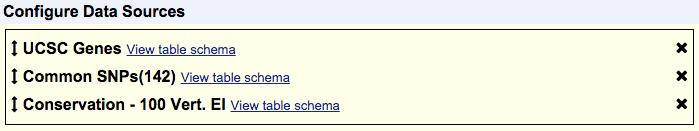
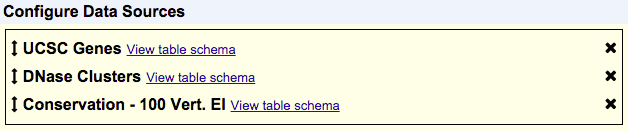
Added an explanation of how we handle multiple overlapping items in multiple secondary tables.  Made an editorial pass over the whole doc and substituted DNase Clusters for SNPs because I think of genes+snps as hgVai's domain. refs #14579

Changed region(s): [[0.0, 0.2443, 0.5446, 0.9466], [0.0, 0.0305, 0.3025, 0.1527], [0.9379, 0.2443, 0.9984, 0.9466]]

diff --git a/src/hg/htdocs/goldenPath/help/hgIntegratorHelp.html b/src/hg/htdocs/goldenPath/help/hgIntegratorHelp.html
@@ -93,27 +93,31 @@
 	<div class="sectionContent">
 	<p>Follow these instructions to perform a basic query that intersects two
 	or more tracks:
+
 	<p>
 	<b>Step 1. Pick a genome assembly</b><br>
 	Specify the genome assembly from which you'd like to retrieve the
-	data by choosing the appropriate organism in the <b>genome</b>
-	list, then selecting the assembly version from the
-	<b>assembly</b> list. Note that the <b>assembly</b> list
-	refreshes each time a different option is selected in the
-	<b>genome</b> list. Assemblies are typically named after the first three
-	characters of an organism's genus and species names. Assemblies that are
+	data by choosing the appropriate organism using the <b>group</b> and <b>genome</b>
+	menus, then selecting the assembly version from the
+	<b>assembly</b> menu.
+        Note that changing the <b>group</b> menu causes the <b>genome</b> menu to refresh,
+        and changing the <b>genome</b> menu causes the <b>assembly</b> menu to refresh.
+        Assemblies that are
 	uploaded as part of an <a href="hgTrackHubHelp.html#Assembly">assembly hub</a>
-	will be available under the hub's name in the <b>group</b> list.
+	will be available under the hub's name in the <b>group</b> menu.
+
 	<p>
 	<b>Step 2. Pick a genomic region</b><br>
-	By default, the Data Integrator region is set to <b>genome</b>,
-	which will display all the data records in the selected table.
+	By default, the Data Integrator's <b>region to annotate</b> menu is set to
+        <select><option>genome</option></select>,
+	which will display all the data records in the selected track(s).
 		<ul>
 		<li>
 		To restrict the data to a specific position
-		range, select <button type="button">position or search term</button> from the 
+		range, select
+                <select><option>position or search term</option></select> from the
 		<b>region to annotate</b> menu
-		and type the position into the box. Some
+		and type or paste the position into the box. Some
 		examples of specific positions include a chromosome name
 		(<em>chrX</em>), a coordinate range within a chromosome
 		(<em>chrX:100000-400000</em>), or a scaffold name.
@@ -121,37 +125,44 @@
 		To look up the position range of a genomic element -- such
 		as a gene name, an accession ID, an STS marker, etc. -- or
 		keywords from the GenBank description of an mRNA,
-		select <button type="button">position or search term</button> from the 
+                select <select><option>position or search term</option></select> from the
 		<b>region to annotate</b> menu and then type
 		your search term into the box.
+                For assemblies that have gene annotations, autocompletions of gene symbols
+                are offered.
+                If your search term matches more than one track or item,
+                then a pop-up will appear with matching items and positions;
+                click an item to select its position.
 		<li>
-		To select multiple genomic regions, select
-		<button type="button">define regions</button> from 
+		To query multiple genomic regions, select
+                <select><option>define regions</option></select> from the
 		<b>region to annotate</b> menu and then
-		entering up to 1,000 regions in a 3- or 4-field
+		enter up to 1,000 regions in a 3- or 4-field
 		<a href="../../FAQ/FAQformat.html#format1">BED</a>
-		file format.
+		file format or as <em>chrom:start-end</em> position ranges.
 		</ul>
 	<p>
 	<b>Step 3. Configure your data sources</b><br>
-	The <b>track group</b> list shows all the annotation track groups
+	The <b>track group</b> menu shows all the annotation track groups
 	available in the selected genome assembly. The names correspond
 	to the groupings displayed at the bottom of the Genome Browser
-	annotation tracks page. When a group is selected from the list,
-	the <b>track</b> list automatically updates to show all the
+	annotation tracks page. When a group is selected from the menu,
+	the <b>track</b> menu automatically updates to show all the
 	annotation tracks available within that group.
 		<ul>
 		<li>
 		To examine all the tracks available within a certain group (e.g.
 		all gene prediction tracks), select the group name from the
-		<b>track group</b> list, then browse the entries in the
-		<b>track</b> list.
+		<b>track group</b> menu, then browse the entries in the
+		<b>track</b> menu.
 		<li>
 		Custom annotation tracks created during the current session
 		are listed under the <b>Custom Tracks</b> group.
 		<li>
-		Each connected track hub will be listed as it's own group under the
-		<b>track group</b> list.
+		Each connected track hub will be listed as its own group under the
+		<b>track group</b> menu.
+                <li>Clicking the "View table schema" link opens a new web browser tab with
+                the Table Browser's schema page which describes the data fields.
 		</ul>
 	<p><img style="border: 1px solid black; display: block;"
 		src="../../images/hgIntegratorAddTrack.png">
@@ -161,7 +172,7 @@
 	See the <a href="#DataSources">Selecting Data Sources</a> section for more details.
 	<p>
 	<b>Step 4. Rearrange your data sources (Optional)</b><br>
-	You can rearrange you data sources by clicking on a track name
+	You can rearrange your data sources by clicking on a track name
 	and dragging it into the desired order. Items are output based on their overlap
 	with the first listed track. The order of the tracks will also determine
 	the order of the fields in the output. Fields from tracks higher in the list
@@ -173,7 +184,7 @@
 	You can choose the columns you want in your output by checking the box next to that
 	field. See the <a href="#OutputConfig">Configuring Output</a> for more details.
 	<p>
-	<b>Step 6. Display the output</b><br>
+	<b>Step 6. Get output</b><br>
 	Click <button type="button">Get Output</button> to display the
 	results of the query in the web browser window. The results will be displayed
 	as tab-delimited text. Download results as a file by checking the box next to
@@ -206,8 +217,8 @@
 	Fields from tracks that are higher up in the <b>Configure Data Sources</b> box will show
 	up before tracks that are lower in that box. Using the same order of tracks seen in the
 	previous example, this means that fields from the UCSC Genes track will appear first in
-	the output, then fields from Common SNPs (142) and lastly fields from Conservation -
-	100 El. However, your tracks aren't limited to the order in which you selected them,
+	the output, then fields from DNase Clusters and lastly fields from Conservation -
+	100 Vert. El. However, your tracks aren't limited to the order in which you selected them,
 	and you can rearrange the order of your tracks at any time. To do so, just click and drag
 	a track to a new position in the list. A track can be removed by clicking the
 	"<b>X</b>" next to it.  
@@ -224,16 +235,16 @@
 	transcripts, mRNAs, and any other tracks where the items have blocks or gaps, the overlap
 	for entire range of the item is computed. This means that introns and gaps in the item are
 	considered when computing overlap. For example, let's consider the following situation
-	using the UCSC Genes and SNP 142 (Common) tracks:
+	using the UCSC Genes and DNase Clusters tracks:
 	<p>
 	<img style="border: 1px solid black; display: block;"
 	src="../../images/hgIntegratorHgTracksExample.png">
 	<p>
-	If we were using the Data Integrator to find the SNPs that overlapped with the gene in the
-	UCSC Genes track, we get all of the visible SNPs in our output.
+	If we were using the Data Integrator to find the DNase peaks that overlapped with the
+	gene in the UCSC Genes track, we would get all of the visible peaks in our output.
 
-	<p>Additionally, items are output regardless of the amount overlap. This means that if there
-	is even a single base of overlap between two items, they are included in the output.
+	<p>Additionally, items are output regardless of the amount of overlap. This means that if
+	there is even a single base of overlap between two items, they are included in the output.
 	
 	</div><!-- .sectionContent --> 
 </div><!-- .section -->
@@ -242,32 +253,66 @@
 <div class="section">
 <h1>Configuring Output</h1>
 	<div class="sectionContent">
-	<p>The Data Integrator allows you to customize your output in a few different ways. The
-	primary way being the option to choose which fields are included in your output. After
+        <p>By default, the Data Integrator outputs all fields of all data sources
+        except for the <tt>bin</tt> column of database tables (a numerical index added by UCSC
+        to speed up database queries).
+        You can customize the set of fields to output, for example in order to make your
+        output file less bulky if you need only some of the fields.  After
 	selecting and configuring your data sources as described in the <a href="#DataSources">
 	Selecting Data Sources</a> section, click <button type="button">Choose fields</button>
 	to begin configuring your output. After clicking the button, a pop-up with all the fields
-	from you selected tables will show up:
+	from your selected tables will appear:
 	<p>
 	<img style="border: 1px solid black; display: block;"
 	src="../../images/hgIntegratorFieldsConfig.png">
-	<p>By default, all of the boxes for a track will be selected. You can quickly select or
-	deselect all of the fields by clicking <button type="button">Set all</button> or
-	<button type="button">Clear all</button> below the track name. Check the box next
-	to the field name to include it in the output. After you have finished selecting your
+	<p>Uncheck the box next to the field name to exclude it from the output;
+        check the box if you change your mind and want to include it.
+        You can quickly select or deselect all of the fields by clicking
+        <button type="button">Set all</button> or
+        <button type="button">Clear all</button> below the track name.
+        After you have finished selecting your
 	output fields, click <button type="button">Done</button> at the bottom of the dialog
 	box to finish configuring your output.
 	
-	<p>Note that for wiggle tracks, the "Value" field is averaged across the region of overlap.
-	In the future, we intend to allow you to output all of the data values in that region
-	of overlap.
-
-	<p>If you want to view your results in the web browser window, click
+	<p>If you want to view your results in the web browser window, simply click
 	<button type="button">Get output</button>. Or, if you want to send your output to a file, 
 	check the box next to <b>Send output to file</b>. You can compress your output file using
-	gzip by checking the box next to <b>Compress with gzip (.gz)</b>.
+	gzip by checking the box next to <b>Compress with gzip (.gz)</b>.  Then click
+        <button type="button">Get output</button> to begin downloading your file.
 	</p>
 	
+	<p>Note that for wiggle tracks, the "Value" field is averaged across the region of overlap.
+	In the future, we intend to add an option to output all of the data values in that region
+	of overlap.
+
+	<p>
+        If a single item in the primary track has multiple matches in a secondary track,
+        then the Data Integrator outputs multiple rows.  Each row repeats the fields of
+        the primary track item, and then adds fields of the <em>nth</em> matching item
+        from each secondary track.
+        If there are multiple secondary tracks, then their items will appear together in
+        a row of output whether or not they overlap each other.  For example, note how items
+        overlap (or not) in the three tracks A, B and C in the image below:
+	<p><img style="border: 1px solid black; display: block;"
+	src="../../images/hgIntegratorHgTracksExample2.png">
+        <p>
+        Two items from track B (B1, B2) overlap the primary item (A).
+        Three items from track C (C1, C2, C3) overlap the primary item (A).
+        The Data Integrator prints 3 rows of output.  B1 and C1, although they
+        do not overlap, appear together in the first row of output.
+        B2 and C2 appear together in the second row of output.
+        The third row of output has empty fields for track B followed
+        by C3's fields.  This is the output (when A, B and C are 4-field
+	<a href="../../FAQ/FAQformat.html#format1">BED</a>
+        custom tracks; colors added for emphasis):
+        <p>
+          <pre class="code">
+#A.chrom	A.chromStart	A.chromEnd	A.name	<span style="color: #960000;">B.chrom	B.chromStart	B.chromEnd	B.name</span>	<span style="color: #000096;">C.chrom	C.chromStart	C.chromEnd	C.name</span>
+chr1	1200	1800	A	<span style="color: #960000;">chr1	1250	1350	B1</span>	<span style="color: #000096;">chr1	1425	1525	C1</span>
+chr1	1200	1800	A	<span style="color: #960000;">chr1	1550	1650	B2</span>	<span style="color: #000096;">chr1	1675	1775	C2</span>
+chr1	1200	1800	A					<span style="color: #000096;">chr1	1700	1800	C3</span>
+          </pre>
+
 	</div><!-- .sectionContent --> 
 </div><!-- .section -->
 
